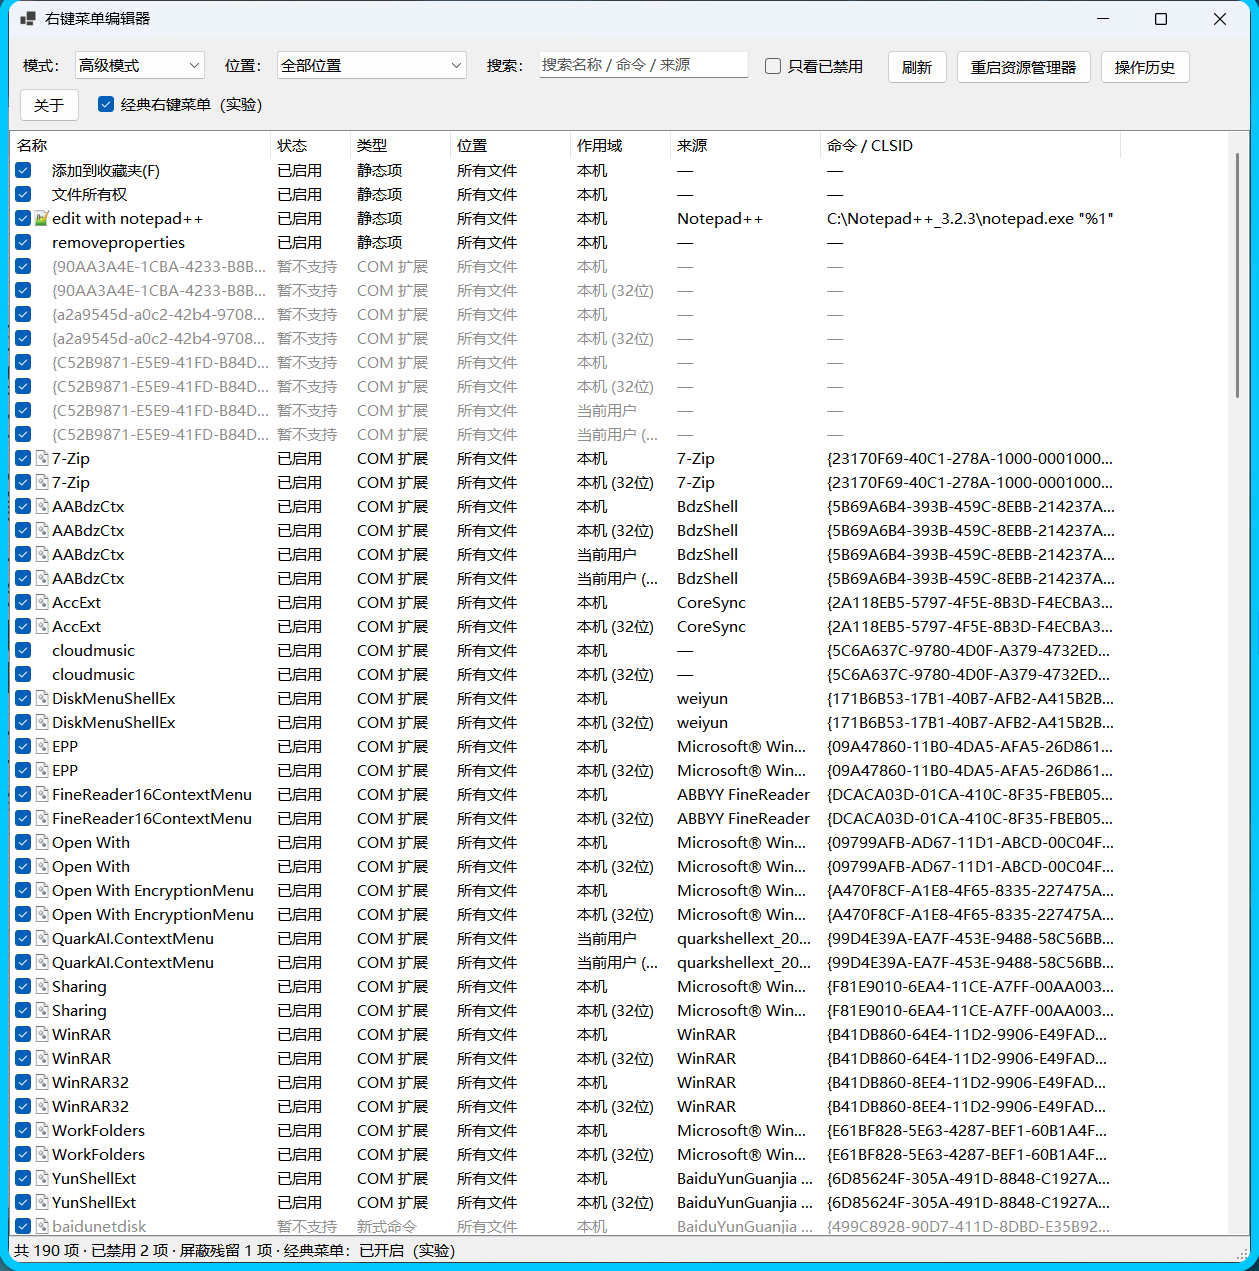
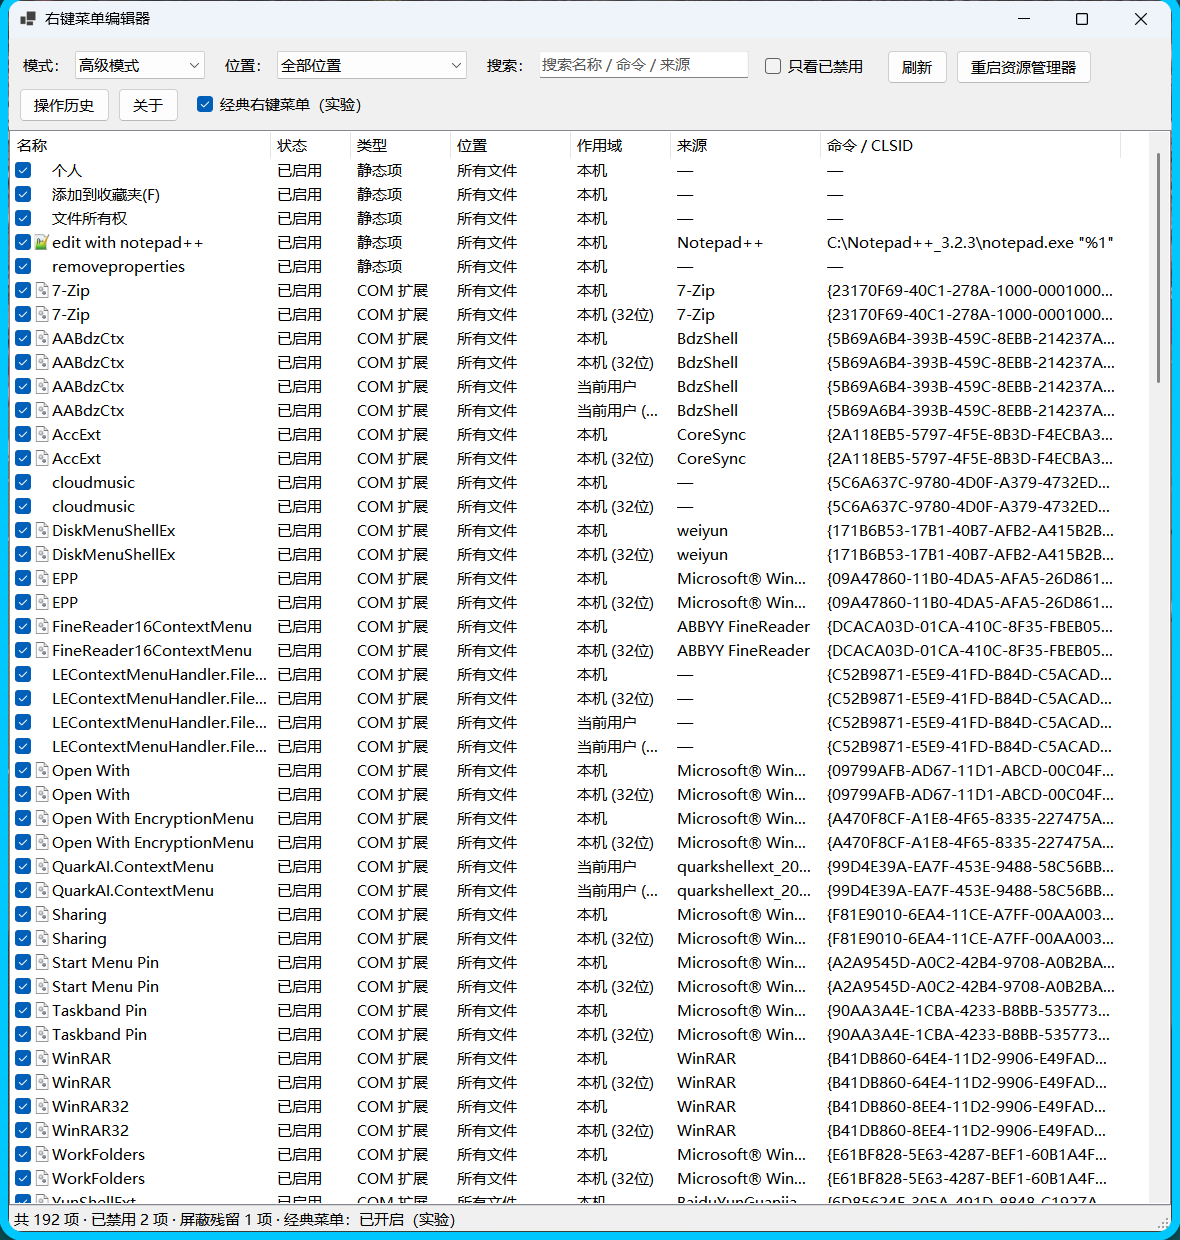
docs(context-menu-editor): 简单模式说明与三张新版截图
README 重写「两种模式」章节（标签页、菜单顺序、级联子项、可读名称），
常见问题补充菜单视角与注册表视角的差异说明。

diff --git a/tools/context-menu-editor/README.md b/tools/context-menu-editor/README.md
@@ -8,13 +8,18 @@
 
 ![简单模式界面](docs/simple-mode.png)
 
-不用理解任何注册表概念，直接对着"你右键时看到的菜单"操作：
+打开就是「右键菜单本身」的样子，不用理解任何注册表概念：
 
-- 先选场景：**文件右键 / 文件夹右键 / 文件夹空白处 / 桌面空白处 / 驱动器右键**
-- 列表里就是该场景下真实出现的菜单项：显示文字、图标、来源程序一目了然
-- **取消勾选 = 隐藏，重新勾选 = 恢复**；只看已隐藏、搜索都在
-- 同一扩展在多处注册（32 位 / 64 位、多个位置、本机 / 当前用户）会自动合并成一项，操作时一并处理，不会漏
-- 选择会记住：下次打开保持上次的模式与场景
+- **场景标签页**：文件 / 文件夹 / 文件夹空白处 / 桌面空白处 / 驱动器 / 所有对象，点一下即切换
+- 列表按**菜单顺序**排列：系统项 → 自定义项 → 扩展程序；带 **▸** 的是子菜单，子项缩进显示在它下面（如「文件夹所有权 ▸ / 个人」）
+- 显示文字就是菜单里的文字（含「使用 Visual Studio 打开(V)」这类中文项），带图标与来源程序
+- **取消勾选 = 隐藏，重新勾选 = 恢复**；已隐藏的项变灰，父项隐藏时其子项会标注「父项已隐藏」
+- 同一个菜单项的多处注册（本机 / 当前用户、32 / 64 位、多个位置）**自动合并成一行**，操作时一并处理，所以例如本机文件右键只有 37 行，而不是注册表里的上百条
+- 名字难懂的扩展会用可读名称呈现（例如 `{596AB062-…}` → `Previous Versions Property Page`，`{474C98EE-…}` → `客户端缓存 UI`）
+
+![文件右键场景](docs/simple-mode-files.png)
+
+选择会记住：下次打开保持上次的模式与场景。
 
 ### 高级模式
 
@@ -31,7 +36,7 @@
 ## 使用
 
 1. 从 [Releases](https://github.com/heathacosta259519-dot/akagi-toolbox/releases) 下载 zip，解压得到 `ContextMenuEditor.exe`
-2. 双击运行；默认进入简单模式，选好场景后**取消勾选 = 隐藏**，**重新勾选 = 恢复**
+2. 双击运行；默认进入简单模式，点场景标签页（文件 / 文件夹 / 文件夹空白处…）后**取消勾选 = 隐藏**，**重新勾选 = 恢复**
 3. 多数改动在新打开的菜单里立即生效；若没生效，点「重启资源管理器」
 4. 想反悔时打开「操作历史」，选中记录点「撤销选中」
 5. 需要看原始注册信息时，把「模式」切到「高级模式」；双击任意一行可看详情并一键在 regedit 中定位
@@ -52,7 +57,10 @@
 ## 常见问题
 
 **简单模式为什么只有几十项，高级模式有上百项？**
-简单模式按"菜单里看到的项"去重合并（同一扩展的 32/64 位、多位置注册会合并），高级模式则是按注册位置逐一展开的原始数据，两者是同一批数据的不同视角。
+简单模式是"菜单视角"：同一菜单项的多处注册（32/64 位、本机/当前用户、多位置）合并为一行，并且只列该场景下真实出现的项；高级模式是"注册表视角"：按注册位置逐条展开的原始数据。两者是同一批数据的不同视角。
+
+**简单模式里的「▸」是什么？**
+表示该项目是子菜单（注册表里的级联菜单，如"文件夹所有权 ▸"下面有"个人"）。子项在它下面缩进显示，可以单独隐藏；隐藏父项后子项也会标记为「父项已隐藏」。
 
 **改了菜单没变化？**
 先点「重启资源管理器」。另外 Win11 的「新式菜单」只显示部分项目，其余项在「显示更多选项」（Shift+F10）里。
@@ -84,8 +92,10 @@ dotnet test .\tests\ContextMenuEditor.Tests    # 运行测试
 ## 开发说明
 
 - 结构：`src/ContextMenuEditor`（主程序，WinForms / net8.0-windows）、`tests/ContextMenuEditor.Tests`（xunit）
-- 简单模式的分组去重逻辑在 `Services/SimpleMenuBuilder.cs`，场景定义在 `Models/MenuScene.cs`
-- 注册表写点只有两处（`Services/ToggleService.cs`），扫描逻辑在 `Services/RegistryScanner.cs`
+- 简单模式：场景定义在 `Models/MenuScene.cs`，合并 / 排序 / 级联层级在 `Services/SimpleMenuBuilder.cs`
+- 注册表读取在 `Services/RegistryScanner.cs`：静态项、级联子菜单（`ExtendedSubCommandsKey` / `SubCommands`）、COM 处理器（含 `Shell Extensions\Blocked` 屏蔽状态）
+- 名称解析在 `Services/EntryNameResolver.cs`：间接字符串（`@shell32.dll,-8506`）、CLSID 注册名、DLL 文件描述逐级回退
+- 注册表写点只有两处（`Services/ToggleService.cs`）
 - 测试在 HKCU 沙盒里创建临时菜单项做「隐藏 → 恢复」往返验证，不会触碰真实菜单项
 
 ## 路线图

diff --git a/README.md b/README.md
@@ -6,7 +6,7 @@ A collection of handy little tools.
 
 ## 工具列表
 
-- **[context-menu-editor](tools/context-menu-editor/)** — Windows 右键菜单编辑器：简单模式下直接对着"右键看到的菜单"开关项目（自动合并去重），高级模式可查看完整注册表细节；非破坏性、可随时恢复。
+- **[context-menu-editor](tools/context-menu-editor/)** — Windows 右键菜单编辑器：简单模式下按场景标签页（文件 / 文件夹 / 文件夹空白处…）直接对着「右键看到的菜单」开关项目，自动合并多处注册、展开子菜单；高级模式可查看完整注册表细节。非破坏性、可随时恢复。
 
 ## 目录约定
 
